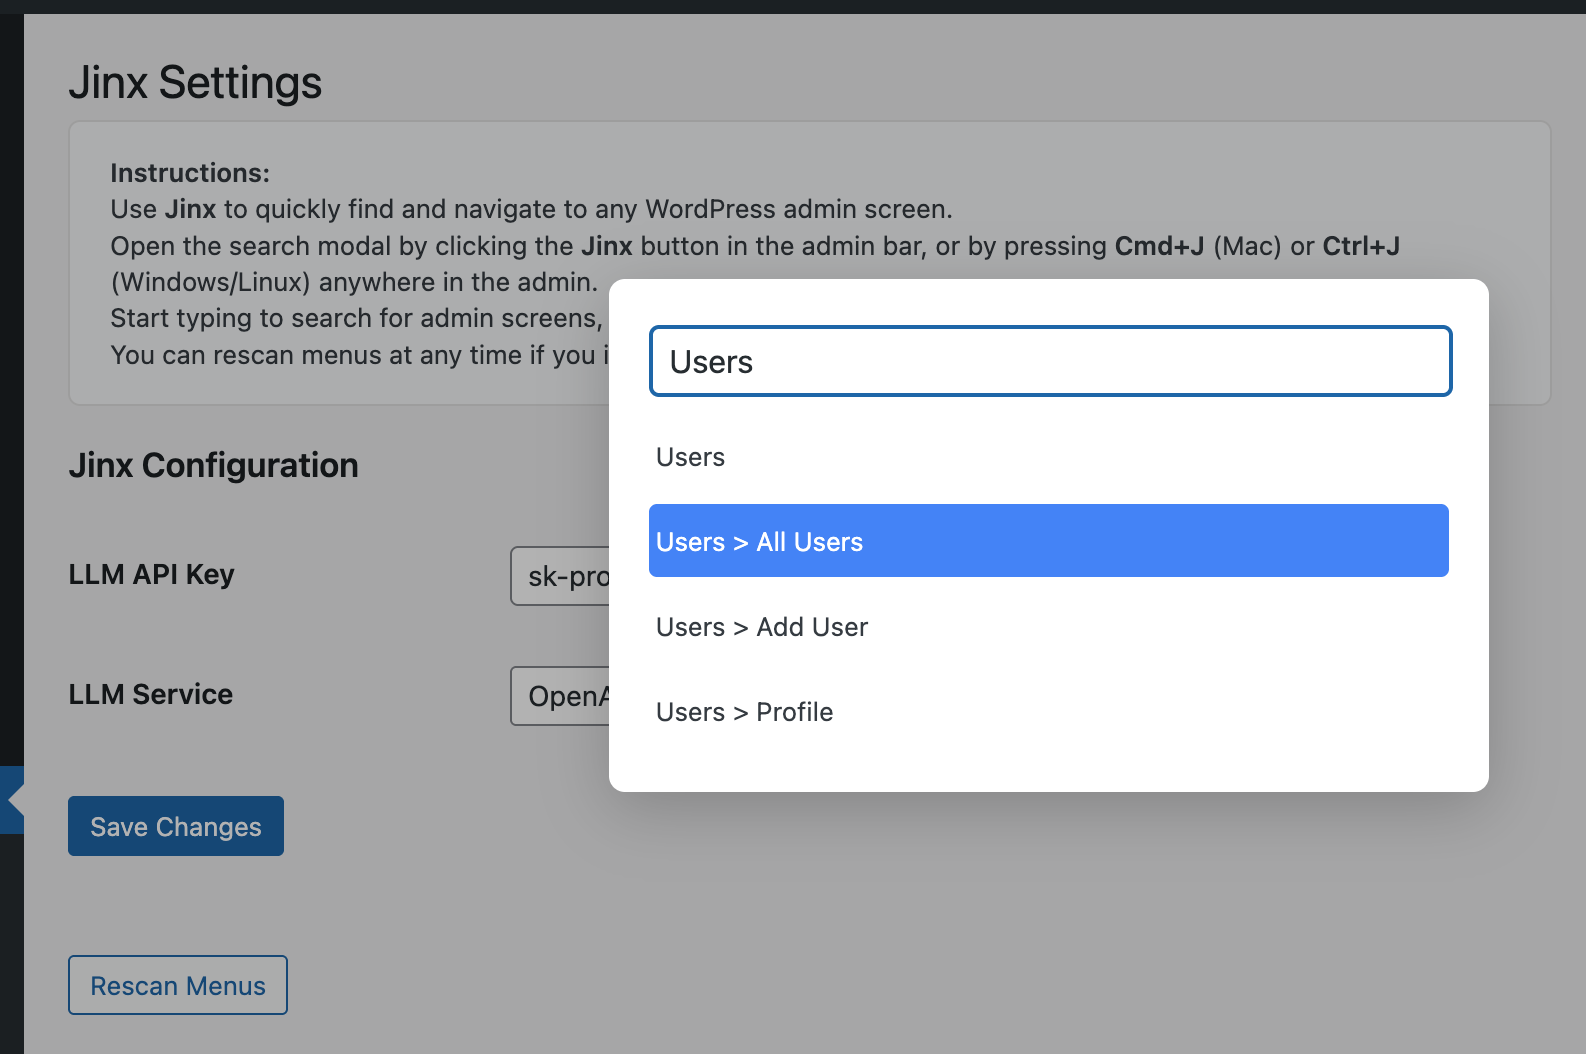
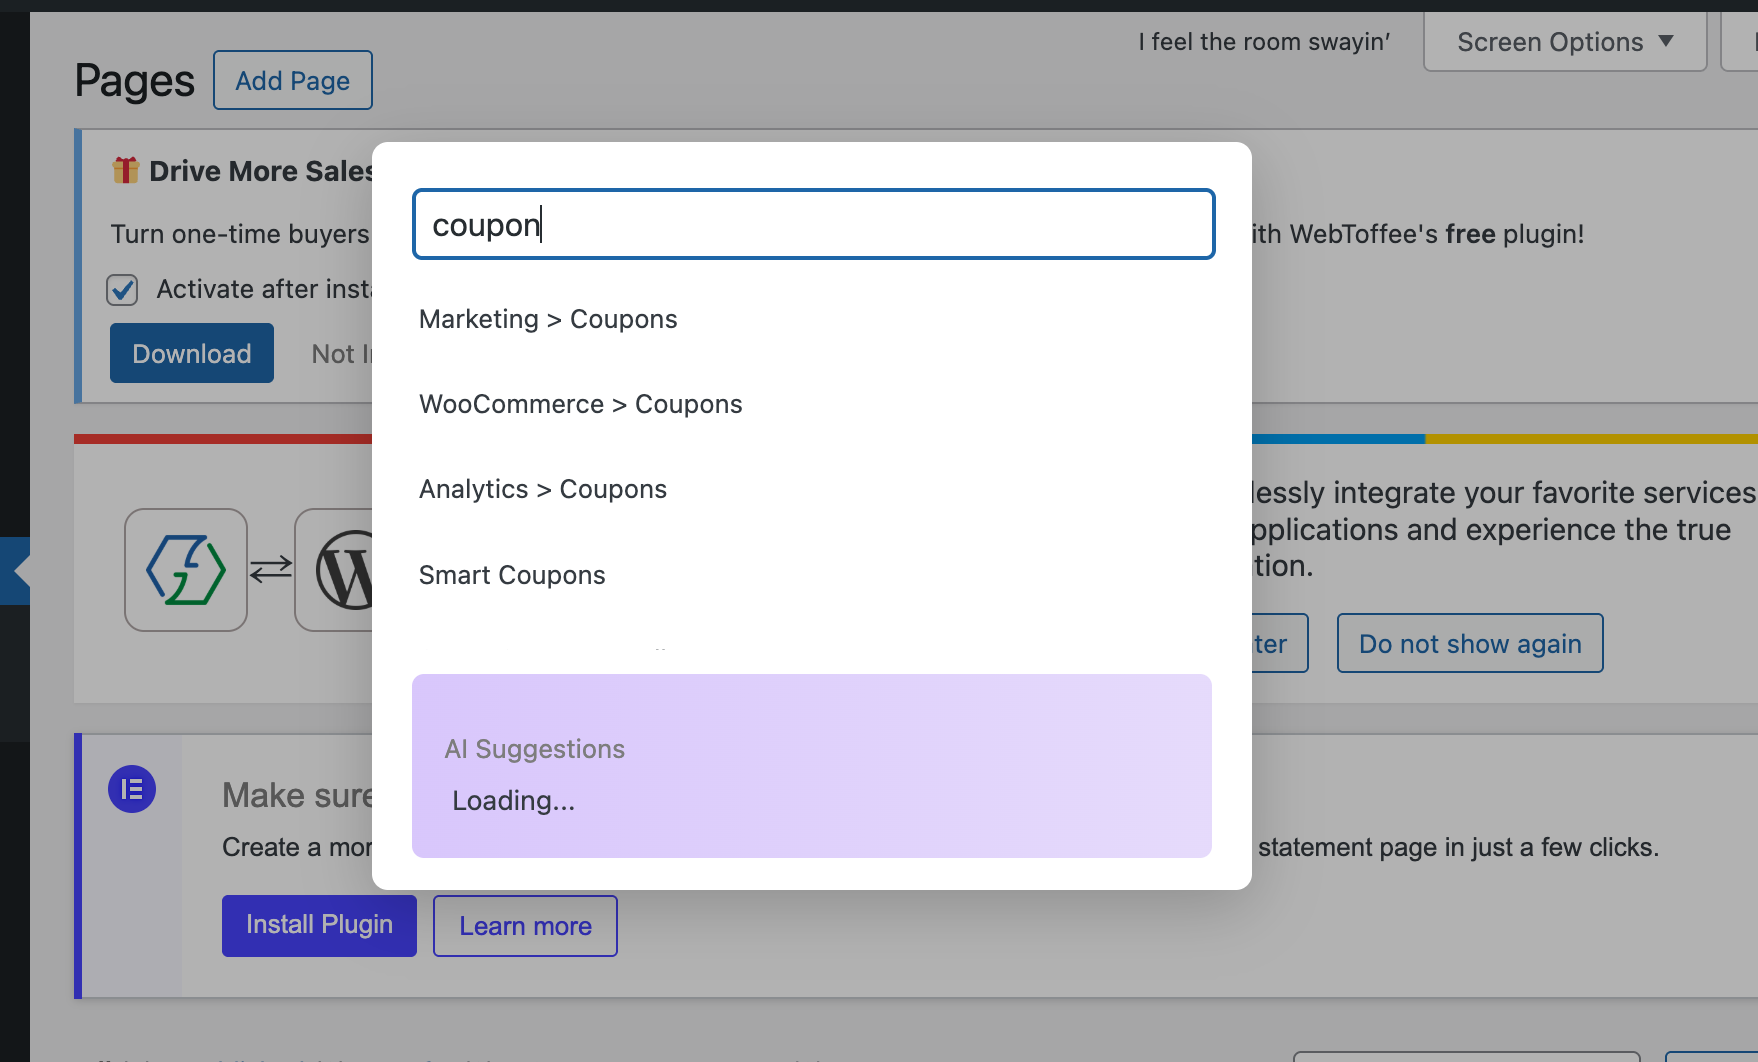
README. Screenshots updated

diff --git a/README.md b/README.md
@@ -15,9 +15,13 @@ Jinx helps WordPress admins quickly find and navigate to any admin screen using 
 
 ![Jinx Modal Screenshot](assets/screenshots/screenshot-1.png)
 
-Jinx will try to find the most probable screen you're looking for:
+#### Hit `Enter` to go directly to the screen you're looking for
 ![Jinx Modal Screenshot](assets/screenshots/screenshot-2.png)
 
+#### Jinx will try to find what you mean:
+![Jinx Modal Screenshot](assets/screenshots/screenshot-3.png)
+
+#### `CMD` + `J`, that's all!
 
 ## Installation
 1. Upload the plugin files to the `/wp-content/plugins/jinx` directory.
